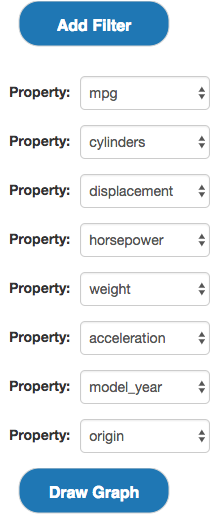
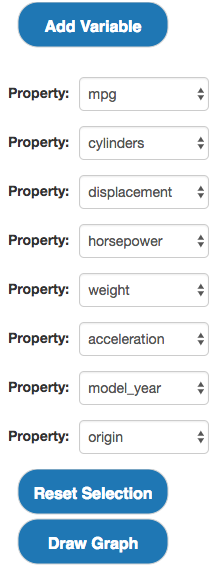
FIX Correlogram JS Add Filter --> Add Variable

Changed region(s): [[0.0279, 0.1233, 0.9767, 1.0], [0.0837, 0.0, 0.7814, 0.0925], [0.0279, 0.1541, 0.3349, 0.2158]]

diff --git a/Correlogram/D3 _Correlogram_template_JS.html b/Correlogram/D3 _Correlogram_template_JS.html
@@ -107,11 +107,10 @@ body, html { overflow: scroll; height: 100% }
             </ul>
            <p>A short time after clicking the <i>Get Table</i> button a second set of buttons should appear:</p>
           	<img src="https://github.com/pcooman/d3_tools/blob/master/Correlogram/Correlogram_Toolbar_start_JS.png?raw=true">
-            <p>Clicking the 'Add Variable' button will create additional 'Property' menus.</p>    		 
-            <img src="https://github.com/pcooman/d3_tools/blob/master/Correlogram/Correlogram_Toolbar_empty_JS.png?raw=true">
             <ul>
               <li><b>Add Variable:</b> A button to generate additional Property dropdown forms.</li>
               <li><b>Property:</b> A drop down menu to select the column of the data set you would like to include in the pairwise correlation calculations.</li>
+              <li><b>Reset Selection:</b> A button to reset the selected Properties.This will remove all current 'Property' menus and their selected values.</li>
               <li><b>Draw Graph:</b> When you have selected the properties for which you want to plot the Correlogram, click this button to retrieve the necessary data and to start drawing the graph.</li>
             </ul>
           	<h2>Data table</h2>
@@ -629,7 +628,7 @@ var createToolbar = function(client,def_vis_width,def_vis_height,params) {
                                       }(dim))                            
                             })
 
-                        	text = svg.append('text').text('Add Filter')
+                        	text = svg.append('text').text('Add Variable')
                                         .attr('x', 95)
                                         .attr('y', 30)
                                         .style('fill', 'white')
